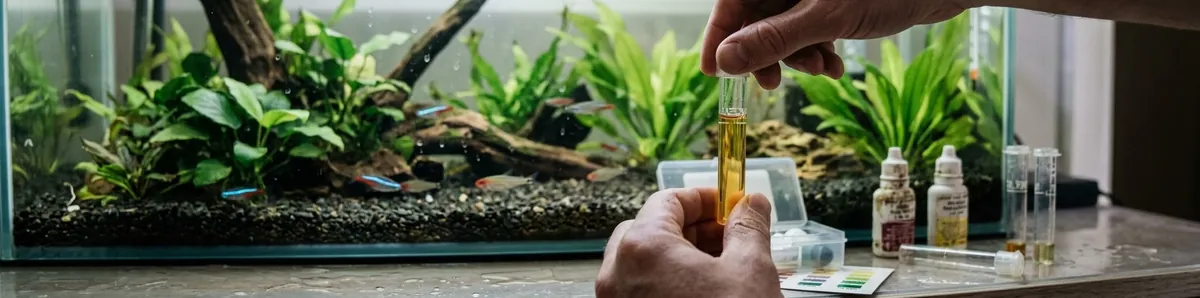
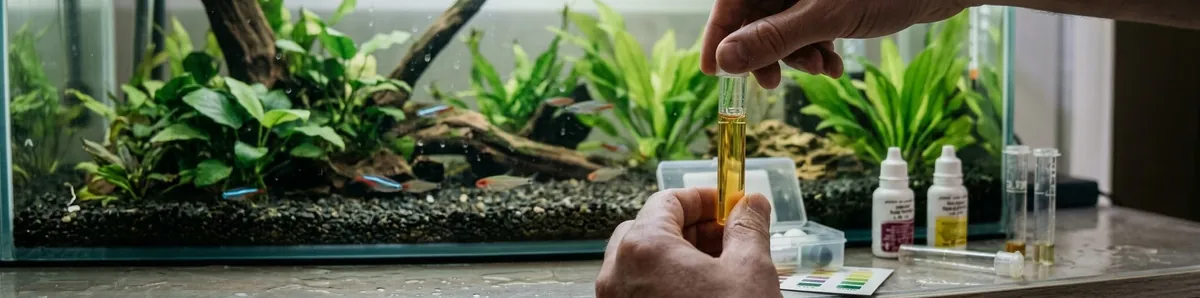
feat(reading): thumbnail kad "Reading the tank" — 29/33 + tukar gambar pH (#523)
* wip(reading): 5 thumbnail baharu — sudden-colour-loss, snails, gh-kh, substrate-smell, cloudy-eyes (29/33)

Sambung rollout thumbnail kad "Reading the tank": sudden-colour-loss-fish,
snails-suddenly-everywhere, understanding-gh-and-kh, smell-from-your-substrate,
cloudy-eyes-fish. id/ja index dijana semula (build-homepage-i18n.py, 0 amaran).
Baki 4 slug: ich-vs-velvet, dropsy-when-treatment-isnt-working,
the-fish-that-sell-the-tank, the-honest-cost-of-going-high-tech.

Claude-Session: https://claude.ai/code/session_01YQR7rCUR6TGu8zaLHEsDJ4

* fix(reading): tukar gambar thumbnail ph-keeps-crashing

Ganti gambar thumbnail (kad "Why pH Keeps Crashing") dgn imej baharu
yg dihantar user — laluan/HTML tidak berubah, cuma kandungan WebP.

Claude-Session: https://claude.ai/code/session_01YQR7rCUR6TGu8zaLHEsDJ4

---------

diff --git a/id/index.html b/id/index.html
@@ -1037,7 +1037,7 @@
           </div>
         </div>
         <div class="rd-card rd-card--acc" data-rd-card>
-          <button type="button" class="rd-card-hit" aria-expanded="false" aria-controls="rd-acc-48" id="rd-acc-48-btn">
+          <button type="button" class="rd-card-hit" aria-expanded="false" aria-controls="rd-acc-48" id="rd-acc-48-btn"><span class="rd-card-thumb"><picture><source srcset="/img/articles/sudden-colour-loss-fish/reading-thumb-720w.webp 720w, /img/articles/sudden-colour-loss-fish/reading-thumb-1200w.webp 1200w" sizes="(max-width:640px) 100vw, 620px" type="image/webp"><img src="/img/articles/sudden-colour-loss-fish/reading-thumb-1200w.webp" alt="" width="1200" height="298" loading="lazy" decoding="async"></picture></span>
             <span class="rd-card-bar" aria-hidden="true"></span>
             <span class="rd-card-hit-row">
               <span class="rd-card-hit-text"></span>
@@ -1058,7 +1058,7 @@
           </div>
         </div>
         <div class="rd-card rd-card--acc" data-rd-card>
-          <button type="button" class="rd-card-hit" aria-expanded="false" aria-controls="rd-acc-49" id="rd-acc-49-btn">
+          <button type="button" class="rd-card-hit" aria-expanded="false" aria-controls="rd-acc-49" id="rd-acc-49-btn"><span class="rd-card-thumb"><picture><source srcset="/img/articles/snails-suddenly-everywhere/reading-thumb-720w.webp 720w, /img/articles/snails-suddenly-everywhere/reading-thumb-1200w.webp 1200w" sizes="(max-width:640px) 100vw, 620px" type="image/webp"><img src="/img/articles/snails-suddenly-everywhere/reading-thumb-1200w.webp" alt="" width="1200" height="298" loading="lazy" decoding="async"></picture></span>
             <span class="rd-card-bar" aria-hidden="true"></span>
             <span class="rd-card-hit-row">
               <span class="rd-card-hit-text"></span>
@@ -1079,7 +1079,7 @@
           </div>
         </div>
         <div class="rd-card rd-card--acc" data-rd-card>
-          <button type="button" class="rd-card-hit" aria-expanded="false" aria-controls="rd-acc-50" id="rd-acc-50-btn">
+          <button type="button" class="rd-card-hit" aria-expanded="false" aria-controls="rd-acc-50" id="rd-acc-50-btn"><span class="rd-card-thumb"><picture><source srcset="/img/articles/understanding-gh-and-kh/reading-thumb-720w.webp 720w, /img/articles/understanding-gh-and-kh/reading-thumb-1200w.webp 1200w" sizes="(max-width:640px) 100vw, 620px" type="image/webp"><img src="/img/articles/understanding-gh-and-kh/reading-thumb-1200w.webp" alt="" width="1200" height="298" loading="lazy" decoding="async"></picture></span>
             <span class="rd-card-bar" aria-hidden="true"></span>
             <span class="rd-card-hit-row">
               <span class="rd-card-hit-text"></span>
@@ -1100,7 +1100,7 @@
           </div>
         </div>
         <div class="rd-card rd-card--acc" data-rd-card>
-          <button type="button" class="rd-card-hit" aria-expanded="false" aria-controls="rd-acc-51" id="rd-acc-51-btn">
+          <button type="button" class="rd-card-hit" aria-expanded="false" aria-controls="rd-acc-51" id="rd-acc-51-btn"><span class="rd-card-thumb"><picture><source srcset="/img/articles/smell-from-your-substrate/reading-thumb-720w.webp 720w, /img/articles/smell-from-your-substrate/reading-thumb-1200w.webp 1200w" sizes="(max-width:640px) 100vw, 620px" type="image/webp"><img src="/img/articles/smell-from-your-substrate/reading-thumb-1200w.webp" alt="" width="1200" height="298" loading="lazy" decoding="async"></picture></span>
             <span class="rd-card-bar" aria-hidden="true"></span>
             <span class="rd-card-hit-row">
               <span class="rd-card-hit-text"></span>
@@ -1121,7 +1121,7 @@
           </div>
         </div>
         <div class="rd-card rd-card--acc" data-rd-card>
-          <button type="button" class="rd-card-hit" aria-expanded="false" aria-controls="rd-acc-52" id="rd-acc-52-btn">
+          <button type="button" class="rd-card-hit" aria-expanded="false" aria-controls="rd-acc-52" id="rd-acc-52-btn"><span class="rd-card-thumb"><picture><source srcset="/img/articles/cloudy-eyes-fish/reading-thumb-720w.webp 720w, /img/articles/cloudy-eyes-fish/reading-thumb-1200w.webp 1200w" sizes="(max-width:640px) 100vw, 620px" type="image/webp"><img src="/img/articles/cloudy-eyes-fish/reading-thumb-1200w.webp" alt="" width="1200" height="298" loading="lazy" decoding="async"></picture></span>
             <span class="rd-card-bar" aria-hidden="true"></span>
             <span class="rd-card-hit-row">
               <span class="rd-card-hit-text"></span>

diff --git a/index.html b/index.html
@@ -1033,7 +1033,7 @@
           </div>
         </div>
         <div class="rd-card rd-card--acc" data-rd-card>
-          <button type="button" class="rd-card-hit" aria-expanded="false" aria-controls="rd-acc-48" id="rd-acc-48-btn">
+          <button type="button" class="rd-card-hit" aria-expanded="false" aria-controls="rd-acc-48" id="rd-acc-48-btn"><span class="rd-card-thumb"><picture><source srcset="/img/articles/sudden-colour-loss-fish/reading-thumb-720w.webp 720w, /img/articles/sudden-colour-loss-fish/reading-thumb-1200w.webp 1200w" sizes="(max-width:640px) 100vw, 620px" type="image/webp"><img src="/img/articles/sudden-colour-loss-fish/reading-thumb-1200w.webp" alt="" width="1200" height="298" loading="lazy" decoding="async"></picture></span>
             <span class="rd-card-bar" aria-hidden="true"></span>
             <span class="rd-card-hit-row">
               <span class="rd-card-hit-text"></span>
@@ -1054,7 +1054,7 @@
           </div>
         </div>
         <div class="rd-card rd-card--acc" data-rd-card>
-          <button type="button" class="rd-card-hit" aria-expanded="false" aria-controls="rd-acc-49" id="rd-acc-49-btn">
+          <button type="button" class="rd-card-hit" aria-expanded="false" aria-controls="rd-acc-49" id="rd-acc-49-btn"><span class="rd-card-thumb"><picture><source srcset="/img/articles/snails-suddenly-everywhere/reading-thumb-720w.webp 720w, /img/articles/snails-suddenly-everywhere/reading-thumb-1200w.webp 1200w" sizes="(max-width:640px) 100vw, 620px" type="image/webp"><img src="/img/articles/snails-suddenly-everywhere/reading-thumb-1200w.webp" alt="" width="1200" height="298" loading="lazy" decoding="async"></picture></span>
             <span class="rd-card-bar" aria-hidden="true"></span>
             <span class="rd-card-hit-row">
               <span class="rd-card-hit-text"></span>
@@ -1075,7 +1075,7 @@
           </div>
         </div>
         <div class="rd-card rd-card--acc" data-rd-card>
-          <button type="button" class="rd-card-hit" aria-expanded="false" aria-controls="rd-acc-50" id="rd-acc-50-btn">
+          <button type="button" class="rd-card-hit" aria-expanded="false" aria-controls="rd-acc-50" id="rd-acc-50-btn"><span class="rd-card-thumb"><picture><source srcset="/img/articles/understanding-gh-and-kh/reading-thumb-720w.webp 720w, /img/articles/understanding-gh-and-kh/reading-thumb-1200w.webp 1200w" sizes="(max-width:640px) 100vw, 620px" type="image/webp"><img src="/img/articles/understanding-gh-and-kh/reading-thumb-1200w.webp" alt="" width="1200" height="298" loading="lazy" decoding="async"></picture></span>
             <span class="rd-card-bar" aria-hidden="true"></span>
             <span class="rd-card-hit-row">
               <span class="rd-card-hit-text"></span>
@@ -1096,7 +1096,7 @@
           </div>
         </div>
         <div class="rd-card rd-card--acc" data-rd-card>
-          <button type="button" class="rd-card-hit" aria-expanded="false" aria-controls="rd-acc-51" id="rd-acc-51-btn">
+          <button type="button" class="rd-card-hit" aria-expanded="false" aria-controls="rd-acc-51" id="rd-acc-51-btn"><span class="rd-card-thumb"><picture><source srcset="/img/articles/smell-from-your-substrate/reading-thumb-720w.webp 720w, /img/articles/smell-from-your-substrate/reading-thumb-1200w.webp 1200w" sizes="(max-width:640px) 100vw, 620px" type="image/webp"><img src="/img/articles/smell-from-your-substrate/reading-thumb-1200w.webp" alt="" width="1200" height="298" loading="lazy" decoding="async"></picture></span>
             <span class="rd-card-bar" aria-hidden="true"></span>
             <span class="rd-card-hit-row">
               <span class="rd-card-hit-text"></span>
@@ -1117,7 +1117,7 @@
           </div>
         </div>
         <div class="rd-card rd-card--acc" data-rd-card>
-          <button type="button" class="rd-card-hit" aria-expanded="false" aria-controls="rd-acc-52" id="rd-acc-52-btn">
+          <button type="button" class="rd-card-hit" aria-expanded="false" aria-controls="rd-acc-52" id="rd-acc-52-btn"><span class="rd-card-thumb"><picture><source srcset="/img/articles/cloudy-eyes-fish/reading-thumb-720w.webp 720w, /img/articles/cloudy-eyes-fish/reading-thumb-1200w.webp 1200w" sizes="(max-width:640px) 100vw, 620px" type="image/webp"><img src="/img/articles/cloudy-eyes-fish/reading-thumb-1200w.webp" alt="" width="1200" height="298" loading="lazy" decoding="async"></picture></span>
             <span class="rd-card-bar" aria-hidden="true"></span>
             <span class="rd-card-hit-row">
               <span class="rd-card-hit-text"></span>

diff --git a/ja/index.html b/ja/index.html
@@ -1039,7 +1039,7 @@
           </div>
         </div>
         <div class="rd-card rd-card--acc" data-rd-card>
-          <button type="button" class="rd-card-hit" aria-expanded="false" aria-controls="rd-acc-48" id="rd-acc-48-btn">
+          <button type="button" class="rd-card-hit" aria-expanded="false" aria-controls="rd-acc-48" id="rd-acc-48-btn"><span class="rd-card-thumb"><picture><source srcset="/img/articles/sudden-colour-loss-fish/reading-thumb-720w.webp 720w, /img/articles/sudden-colour-loss-fish/reading-thumb-1200w.webp 1200w" sizes="(max-width:640px) 100vw, 620px" type="image/webp"><img src="/img/articles/sudden-colour-loss-fish/reading-thumb-1200w.webp" alt="" width="1200" height="298" loading="lazy" decoding="async"></picture></span>
             <span class="rd-card-bar" aria-hidden="true"></span>
             <span class="rd-card-hit-row">
               <span class="rd-card-hit-text"></span>
@@ -1060,7 +1060,7 @@
           </div>
         </div>
         <div class="rd-card rd-card--acc" data-rd-card>
-          <button type="button" class="rd-card-hit" aria-expanded="false" aria-controls="rd-acc-49" id="rd-acc-49-btn">
+          <button type="button" class="rd-card-hit" aria-expanded="false" aria-controls="rd-acc-49" id="rd-acc-49-btn"><span class="rd-card-thumb"><picture><source srcset="/img/articles/snails-suddenly-everywhere/reading-thumb-720w.webp 720w, /img/articles/snails-suddenly-everywhere/reading-thumb-1200w.webp 1200w" sizes="(max-width:640px) 100vw, 620px" type="image/webp"><img src="/img/articles/snails-suddenly-everywhere/reading-thumb-1200w.webp" alt="" width="1200" height="298" loading="lazy" decoding="async"></picture></span>
             <span class="rd-card-bar" aria-hidden="true"></span>
             <span class="rd-card-hit-row">
               <span class="rd-card-hit-text"></span>
@@ -1081,7 +1081,7 @@
           </div>
         </div>
         <div class="rd-card rd-card--acc" data-rd-card>
-          <button type="button" class="rd-card-hit" aria-expanded="false" aria-controls="rd-acc-50" id="rd-acc-50-btn">
+          <button type="button" class="rd-card-hit" aria-expanded="false" aria-controls="rd-acc-50" id="rd-acc-50-btn"><span class="rd-card-thumb"><picture><source srcset="/img/articles/understanding-gh-and-kh/reading-thumb-720w.webp 720w, /img/articles/understanding-gh-and-kh/reading-thumb-1200w.webp 1200w" sizes="(max-width:640px) 100vw, 620px" type="image/webp"><img src="/img/articles/understanding-gh-and-kh/reading-thumb-1200w.webp" alt="" width="1200" height="298" loading="lazy" decoding="async"></picture></span>
             <span class="rd-card-bar" aria-hidden="true"></span>
             <span class="rd-card-hit-row">
               <span class="rd-card-hit-text"></span>
@@ -1102,7 +1102,7 @@
           </div>
         </div>
         <div class="rd-card rd-card--acc" data-rd-card>
-          <button type="button" class="rd-card-hit" aria-expanded="false" aria-controls="rd-acc-51" id="rd-acc-51-btn">
+          <button type="button" class="rd-card-hit" aria-expanded="false" aria-controls="rd-acc-51" id="rd-acc-51-btn"><span class="rd-card-thumb"><picture><source srcset="/img/articles/smell-from-your-substrate/reading-thumb-720w.webp 720w, /img/articles/smell-from-your-substrate/reading-thumb-1200w.webp 1200w" sizes="(max-width:640px) 100vw, 620px" type="image/webp"><img src="/img/articles/smell-from-your-substrate/reading-thumb-1200w.webp" alt="" width="1200" height="298" loading="lazy" decoding="async"></picture></span>
             <span class="rd-card-bar" aria-hidden="true"></span>
             <span class="rd-card-hit-row">
               <span class="rd-card-hit-text"></span>
@@ -1123,7 +1123,7 @@
           </div>
         </div>
         <div class="rd-card rd-card--acc" data-rd-card>
-          <button type="button" class="rd-card-hit" aria-expanded="false" aria-controls="rd-acc-52" id="rd-acc-52-btn">
+          <button type="button" class="rd-card-hit" aria-expanded="false" aria-controls="rd-acc-52" id="rd-acc-52-btn"><span class="rd-card-thumb"><picture><source srcset="/img/articles/cloudy-eyes-fish/reading-thumb-720w.webp 720w, /img/articles/cloudy-eyes-fish/reading-thumb-1200w.webp 1200w" sizes="(max-width:640px) 100vw, 620px" type="image/webp"><img src="/img/articles/cloudy-eyes-fish/reading-thumb-1200w.webp" alt="" width="1200" height="298" loading="lazy" decoding="async"></picture></span>
             <span class="rd-card-bar" aria-hidden="true"></span>
             <span class="rd-card-hit-row">
               <span class="rd-card-hit-text"></span>

diff --git a/img/articles/cloudy-eyes-fish/SOURCES.md b/img/articles/cloudy-eyes-fish/SOURCES.md
@@ -1,0 +1,3 @@
+# Sources
+
+Reading-list thumbnail image (`reading-thumb-720w.webp` / `reading-thumb-1200w.webp`) provided directly by the site owner — not stock library, not AI-generated. License: owner-provided, TBD.

diff --git a/img/articles/smell-from-your-substrate/SOURCES.md b/img/articles/smell-from-your-substrate/SOURCES.md
@@ -1,0 +1,3 @@
+# Sources
+
+Reading-list thumbnail image (`reading-thumb-720w.webp` / `reading-thumb-1200w.webp`) provided directly by the site owner — not stock library, not AI-generated. License: owner-provided, TBD.

diff --git a/img/articles/snails-suddenly-everywhere/SOURCES.md b/img/articles/snails-suddenly-everywhere/SOURCES.md
@@ -1,0 +1,3 @@
+# Sources
+
+Reading-list thumbnail image (`reading-thumb-720w.webp` / `reading-thumb-1200w.webp`) provided directly by the site owner — not stock library, not AI-generated. License: owner-provided, TBD.

diff --git a/img/articles/sudden-colour-loss-fish/SOURCES.md b/img/articles/sudden-colour-loss-fish/SOURCES.md
@@ -1,0 +1,3 @@
+# Sources
+
+Reading-list thumbnail image (`reading-thumb-720w.webp` / `reading-thumb-1200w.webp`) provided directly by the site owner — not stock library, not AI-generated. License: owner-provided, TBD.

diff --git a/img/articles/understanding-gh-and-kh/SOURCES.md b/img/articles/understanding-gh-and-kh/SOURCES.md
@@ -1,0 +1,3 @@
+# Sources
+
+Reading-list thumbnail image (`reading-thumb-720w.webp` / `reading-thumb-1200w.webp`) provided directly by the site owner — not stock library, not AI-generated. License: owner-provided, TBD.
